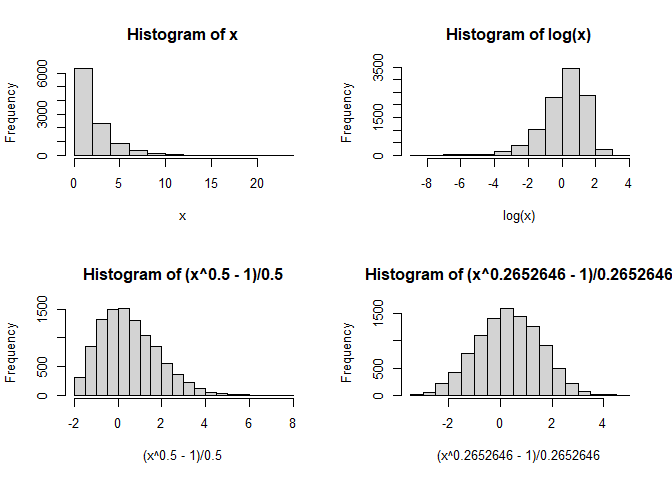
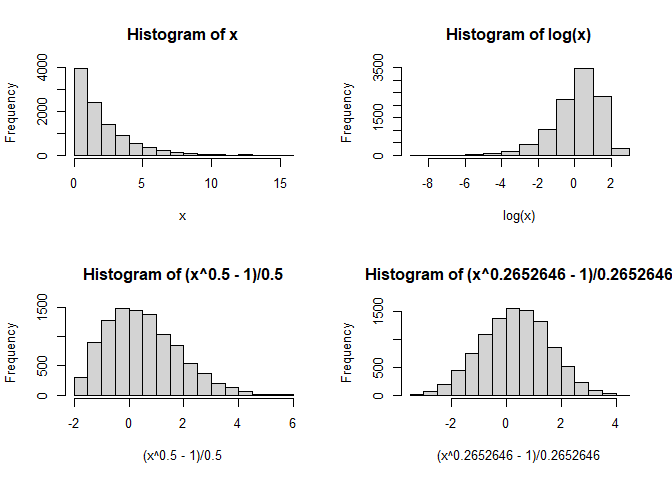
rerun

diff --git a/02 - Notes/06 - Data Preparation/2 - Feature Engineering/README.md b/02 - Notes/06 - Data Preparation/2 - Feature Engineering/README.md
@@ -4,11 +4,21 @@ Daniel Carpenter
 
 -   <a href="#standardize-data" id="toc-standardize-data"><span
     class="toc-section-number">1</span> Standardize Data</a>
+    -   <a href="#techniques" id="toc-techniques"><span
+        class="toc-section-number">1.1</span> Techniques</a>
 -   <a href="#how-to-transform-skewness"
     id="toc-how-to-transform-skewness"><span
     class="toc-section-number">2</span> How to Transform Skewness</a>
--   <a href="#example-in-r" id="toc-example-in-r"><span
-    class="toc-section-number">3</span> Example in R</a>
+    -   <a href="#example-1-concepts" id="toc-example-1-concepts"><span
+        class="toc-section-number">2.1</span> Example 1 (Concepts)</a>
+    -   <a href="#example-in-r" id="toc-example-in-r"><span
+        class="toc-section-number">2.2</span> Example in R</a>
+-   <a href="#feature-construction" id="toc-feature-construction"><span
+    class="toc-section-number">3</span> Feature Construction</a>
+    -   <a href="#questions-for-feature-extraction"
+        id="toc-questions-for-feature-extraction"><span
+        class="toc-section-number">3.1</span> Questions for Feature
+        Extraction</a>
 
 ## Standardize Data
 
@@ -28,7 +38,7 @@ Daniel Carpenter
 
 <img src="images/paste-C1688B8C.png" width="550" />
 
-## Example in R
+### Example in R
 
 ``` r
 # Example code to demonstrate skewed distribution transformations
@@ -150,8 +160,8 @@ head(boxcox(x))     # produces a PPCC (probability plot correlation coefficient)
     [1] -2.0 -1.5 -1.0 -0.5  0.0  0.5  1.0  1.5  2.0
 
     $objective
-    [1] 0.07707657 0.09860491 0.17978042 0.57420895 0.96979524 0.98564238 0.90046064
-    [8] 0.77837618 0.64132502
+    [1] 0.06848235 0.09440019 0.19171049 0.60367967 0.96994933 0.98636790 0.90605047
+    [8] 0.79914442 0.69079080
 
     $objective.name
     [1] "PPCC"
@@ -182,10 +192,10 @@ head(boxcox(x, optimize = TRUE, lambda=c(-3,3)))    # if optimize = TRUE, then y
 ```
 
     $lambda
-    [1] 0.2671363
+    [1] 0.2714186
 
     $objective
-    [1] 0.9993702
+    [1] 0.9992788
 
     $objective.name
     [1] "PPCC"
@@ -240,3 +250,17 @@ legend(0,6,c("p=-1", "p=0 (log)", "p=1", "p=2", "p=3"), col=c(1,2,3,4,5),
 
 # ------------------------------------------------------------------------------------
 ```
+
+## Feature Construction
+
+<img src="images/paste-C6E2955B.png" width="550" />
+
+<img src="images/paste-823FC445.png" width="550" />
+
+<img src="images/paste-E0295AF4.png" width="550" />
+
+### Questions for Feature Extraction
+
+<img src="images/paste-9780FA40.png" width="550" />
+
+<img src="images/paste-52B63335.png" width="550" />
